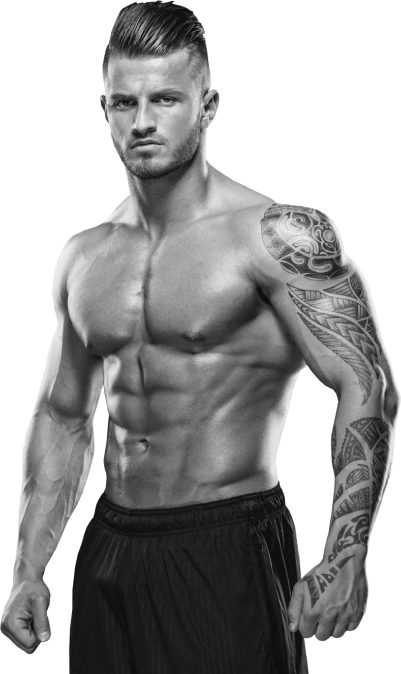
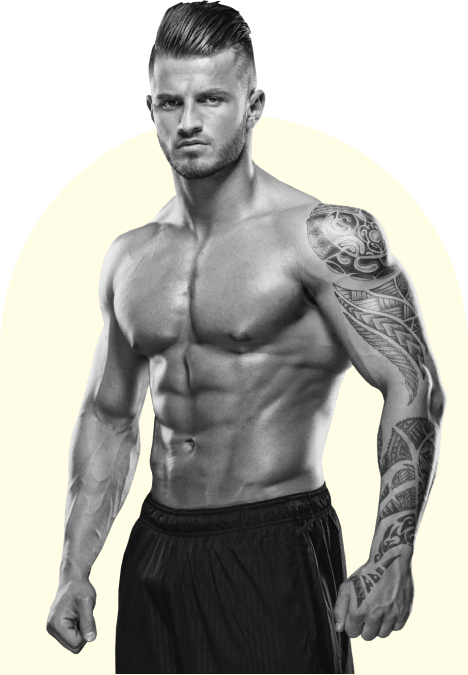
внесены изменения

diff --git a/css/style.css b/css/style.css
@@ -38,6 +38,8 @@ body {
 }
 
 .wrapper {
+  min-height: 100%;
+  overflow: hidden;
   padding: 140px 207px;
 }
 .content {
@@ -98,12 +100,7 @@ body {
   line-height: 1.27;
   color: #b8b8b8;
 }
+
 .image {
-  width: 468px;
-  height: 674px;
-  background: url("../img/fon.png") left bottom no-repeat;
-  background-size: 468px 560px;
-}
-.photo {
-  padding-left: 46px;
+  max-width: 468px;
 }

diff --git a/css/null.css b/css/null.css
@@ -1,6 +1,7 @@
 *,
 *::before,
 *::after {
+  box-sizing: border-box;
   margin: 0;
   padding: 0;
   border: 0;
@@ -8,6 +9,10 @@
 
 li {
   list-style: none;
+}
+
+a {
+  color: inherit;
 }
 
 a,
